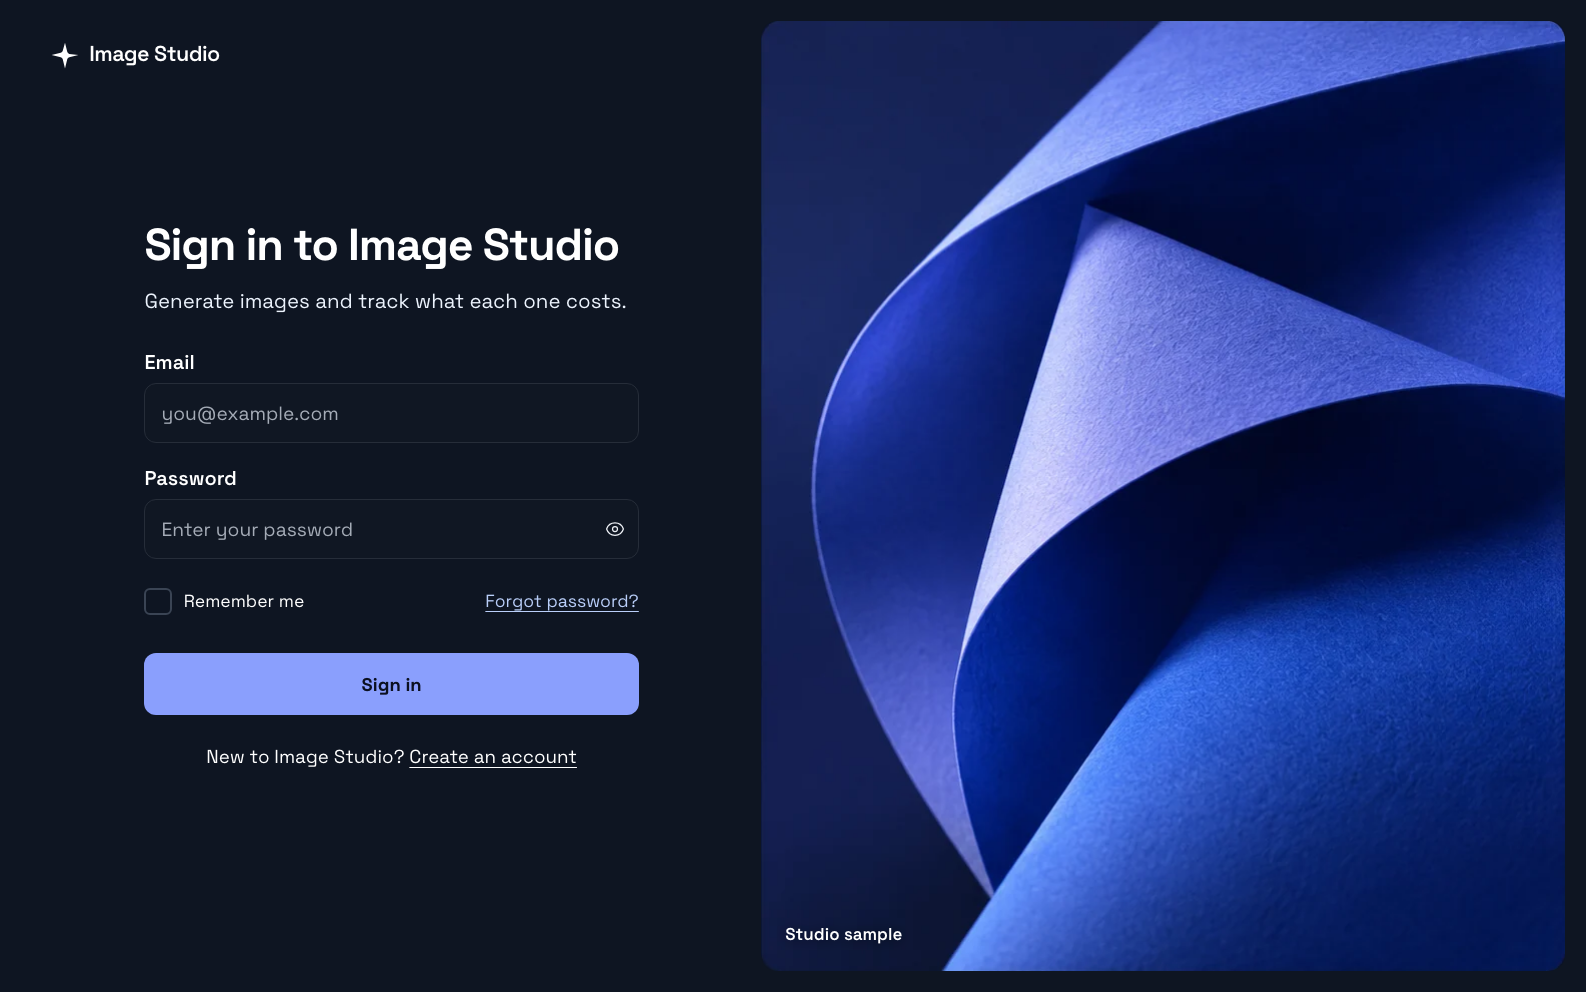
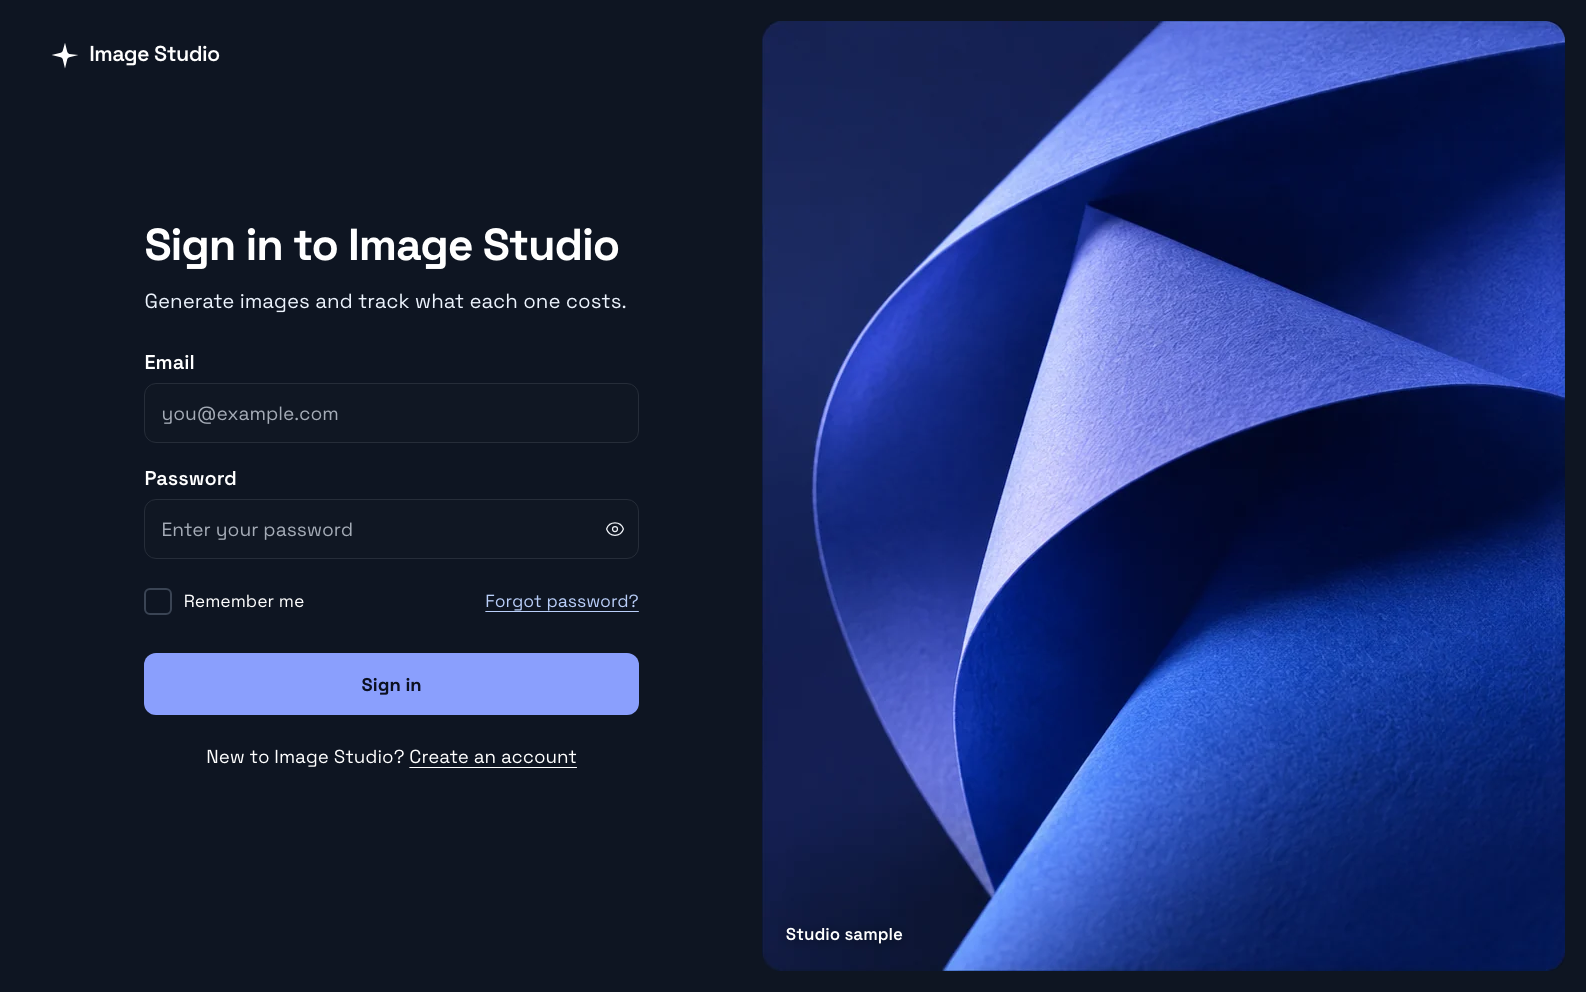
Keep the sign-in artwork's framing at every window shape
The asset was right; the panel was not. The panel stretched to fill its
column, so its aspect ratio followed the browser window rather than the
artwork. On a wide, short window the panel became landscape (1019x883)
while the image is portrait (803x950), and object-fit: cover answered that
by cropping 27% of the image's height. The composition in the design was
only ever visible at the one window shape that happened to match it:

  2000x925   showed 73% of the image height
  1920x900   showed 74%
  1440x620   showed 67%
  1586x992   showed 100%   <- the size every screenshot had used

The panel now holds the artwork's own 803:950 ratio and is right-aligned
in its column, so the whole picture is visible at any window shape and the
21px margins and rounded corners are unaffected. At the design's own
proportions the panel still measures exactly 803x950 and fills the column,
so the reference match is unchanged.

Verified showing 100% width and height of the artwork at 1024x900,
1280x560, 1440x620, 1586x992, 1920x1080 and 2000x925.

Also drops autofocus from the email field: the design shows the field at
rest, and the focus ring was a visible difference in normal use. One line
to restore if the focus is wanted.

Reference match improves to 97.4% of pixels within tolerance, artwork side
mean difference 5.9/765.

diff --git a/resources/js/Pages/Auth/Login.vue b/resources/js/Pages/Auth/Login.vue
@@ -73,7 +73,6 @@ const submit = () => {
                                 v-model="form.email"
                                 type="email"
                                 required
-                                autofocus
                                 autocomplete="username"
                                 placeholder="you@example.com"
                                 class="mt-[0.7rem] [@media(max-height:800px)]:mt-[0.45rem] block h-[3.4rem] w-full sm:h-[3.75rem] [@media(max-height:800px)]:sm:h-[3.1rem] rounded-xl border border-[#262d39] bg-[#101723] px-4 text-[1.0625rem] text-white placeholder:text-[#a5acb7] sm:text-[1.2rem] focus:border-[#8a9ffd] focus:outline-none focus:ring-1 focus:ring-[#8a9ffd]"
@@ -150,8 +149,17 @@ const submit = () => {
         </div>
 
         <!-- Artwork side. Desktop only: see useMediaQuery above. -->
-        <div v-if="showArtwork" class="hidden py-[1.3rem] pr-[1.3rem] lg:block lg:h-screen">
-            <figure class="relative h-full overflow-hidden rounded-2xl">
+        <!--
+            The panel keeps the artwork's own 803:950 proportions rather than
+            stretching to fill the column. Filling it meant that on any window
+            that is not the design's exact shape, `cover` cropped the image
+            vertically -- 27% of it on a wide, short window -- so the
+            composition was never the one in the design. Holding the ratio
+            shows the whole picture at every window shape, and at the design's
+            proportions it still fills the column exactly.
+        -->
+        <div v-if="showArtwork" class="hidden justify-end py-[1.3rem] pr-[1.3rem] lg:flex lg:h-screen">
+            <figure class="relative h-full w-auto max-w-full shrink-0 overflow-hidden rounded-2xl [aspect-ratio:803/950]">
                 <img
                     src="/images/login-hero.webp"
                     alt=""
